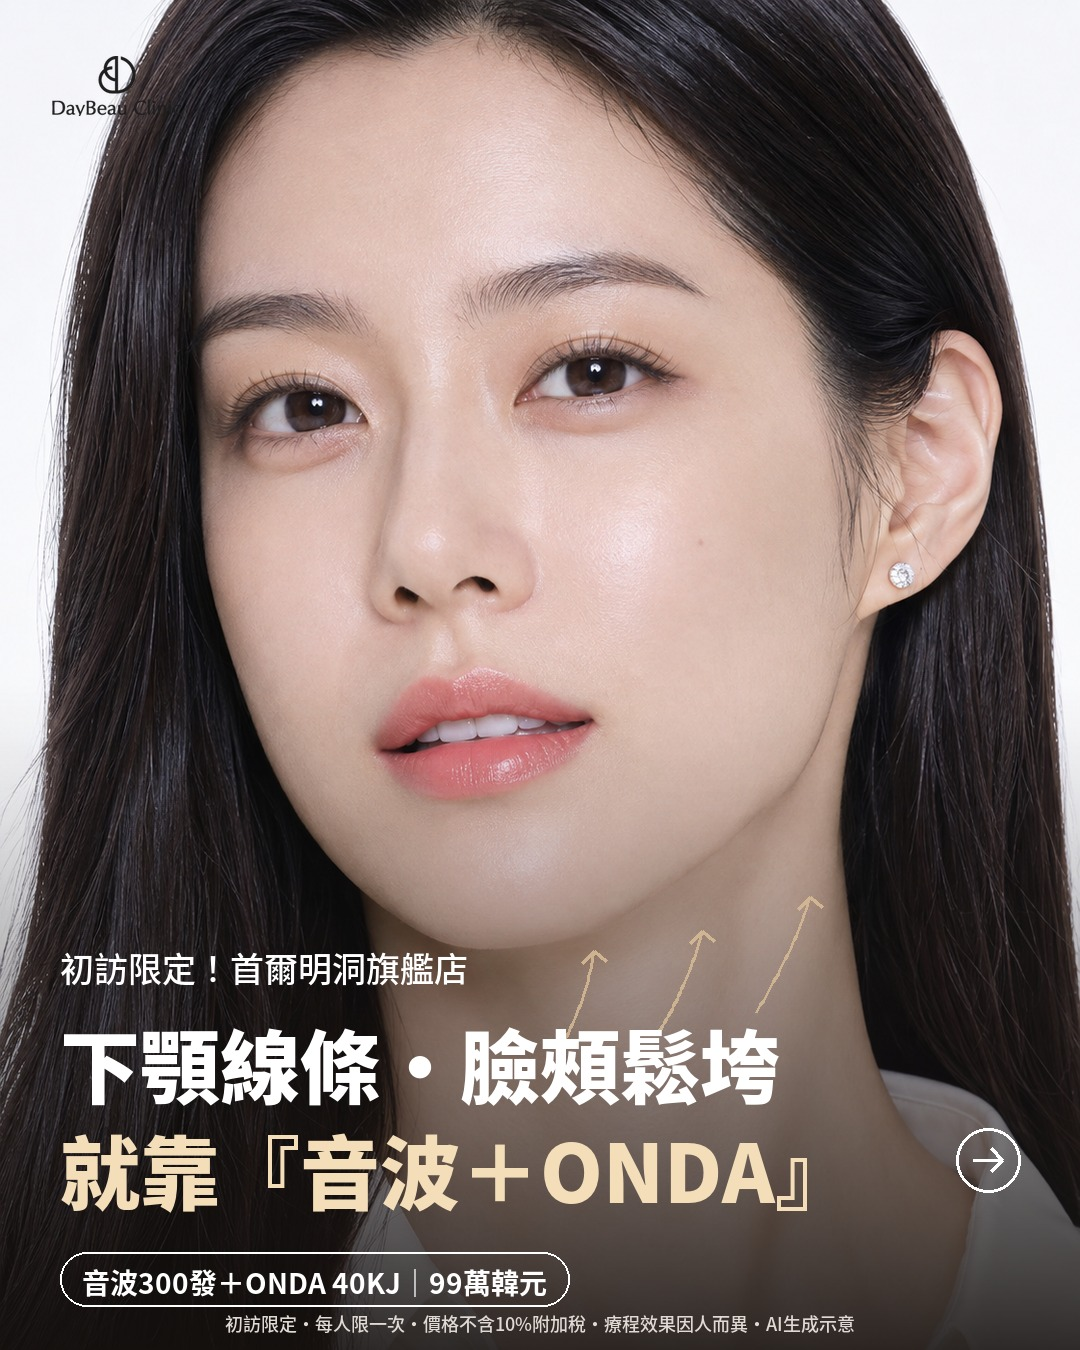
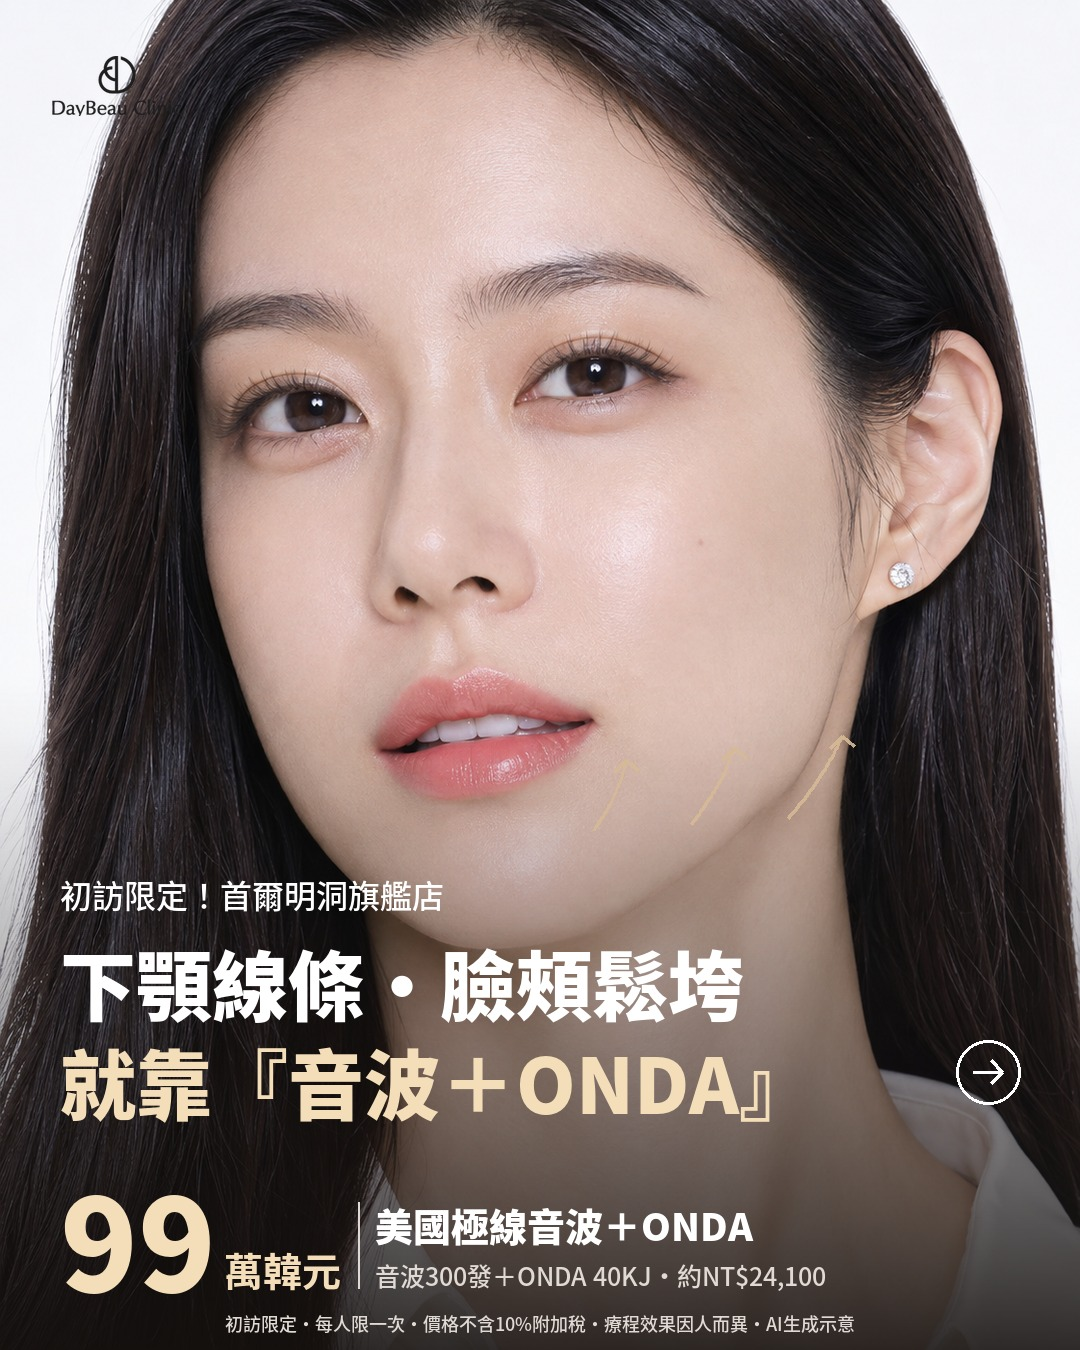
Claude: review-261112 게시

diff --git a/review-261112/index.html b/review-261112/index.html
@@ -14,20 +14,20 @@ table{border-collapse:collapse;width:100%;margin-top:14px;font-size:14px} td,th{
 .b{font-size:12px;padding:2px 8px;border-radius:99px;vertical-align:middle;margin-left:6px} .new{background:var(--acc);color:#fff} .keep{border:1px solid var(--line);color:var(--sub)}
 @media (max-width:640px){.pair{grid-template-columns:1fr}}
 </style><main><h1>데이뷰 명동 대만 이미지 소재 v5</h1>
-<p class="lead">왼쪽 우리 소재(4:5), 오른쪽 짝지은 레퍼런스. 1:1·9:16 파일은 같은 이름으로 함께 있습니다. 빠진 소재: 온다_셀카형1, 포텐자쥬베룩_셀카형1, 플래시형, 진정형, 다이어리형.</p>
-<section><h2>온다울쎄라_고민형1 <span class="b new">새 화보</span></h2><p class="ref">레퍼런스: PRIA 「頸闊肌肉毒」 (208일 집행)</p>
+<p class="lead">왼쪽 우리 소재(4:5), 오른쪽 짝지은 레퍼런스(모두 2026-11-12 기준 대만에 집행 중인 광고). 1:1·9:16 파일은 같은 이름으로 함께 있습니다. 빠진 소재: 온다_셀카형1, 포텐자쥬베룩_셀카형1, 플래시형, 진정형, 다이어리형.</p>
+<section><h2>온다울쎄라_고민형1 <span class="b new">새 화보</span></h2><p class="ref">레퍼런스: PRIA 「頸闊肌肉毒」 (2026-04-14부터 집행 중)</p>
 <div class="pair"><div class="ours"><img src="clips/온다울쎄라_고민형1_TW_4x5.jpg" alt=""></div><div class="theirs"><img src="ref/대만_4342478389414057_1.jpg" alt=""></div></div>
-<table><tr><th>번체</th><th>한국어</th></tr><tr><td lang='zh-Hant'>初訪限定！首爾明洞旗艦店</td><td>첫 방문 한정! 서울 명동 본점</td></tr><tr><td lang='zh-Hant'>下顎線條・臉頰鬆垮</td><td>턱선·볼 처짐</td></tr><tr><td lang='zh-Hant'>就靠『音波＋ONDA』</td><td>『울쎄라+온다』로 해결</td></tr><tr><td lang='zh-Hant'>音波300發＋ONDA 40KJ｜99萬韓元</td><td>울쎄라 300샷+온다 40KJ | 99만 원</td></tr><tr><td lang='zh-Hant'>初訪限定・每人限一次・價格不含10%附加稅・療程效果因人而異・AI生成示意</td><td>첫 방문 한정·1인 1회·가격 부가세 10% 별도·효과는 개인차·AI 생성 이미지</td></tr></table></section><section><h2>포텐자쥬베룩_고민형1 <span class="b new">새 화보</span></h2><p class="ref">레퍼런스: PRIA 「凹凸不平的凹陷疤痕」 (40일 집행)</p>
+<table><tr><th>번체</th><th>한국어</th></tr><tr><td lang='zh-Hant'>初訪限定！首爾明洞旗艦店</td><td>첫 방문 한정! 서울 명동 본점</td></tr><tr><td lang='zh-Hant'>下顎線條・臉頰鬆垮</td><td>턱선·볼 처짐</td></tr><tr><td lang='zh-Hant'>就靠『音波＋ONDA』</td><td>『울쎄라+온다』로 해결</td></tr><tr><td lang='zh-Hant'>99萬韓元 美國極線音波＋ONDA / 音波300發＋ONDA 40KJ・約NT$24,100</td><td>99만 원 미국 울쎄라+온다 / 울쎄라 300샷+온다 40KJ·약 NT$24,100</td></tr><tr><td lang='zh-Hant'>初訪限定・每人限一次・價格不含10%附加稅・療程效果因人而異・AI生成示意</td><td>첫 방문 한정·1인 1회·가격 부가세 10% 별도·효과는 개인차·AI 생성 이미지</td></tr></table></section><section><h2>포텐자쥬베룩_고민형1 <span class="b new">새 화보</span></h2><p class="ref">레퍼런스: PRIA 「凹凸不平的凹陷疤痕」 (2026-09-29부터 집행 중)</p>
 <div class="pair"><div class="ours"><img src="clips/포텐자쥬베룩_고민형1_TW_4x5.jpg" alt=""></div><div class="theirs"><img src="ref/대만_28200883912915810_1.jpg" alt=""></div></div>
-<table><tr><th>번체</th><th>한국어</th></tr><tr><td lang='zh-Hant'>每次上妝都很在意的毛孔</td><td>화장할 때마다 신경 쓰이는 모공</td></tr><tr><td lang='zh-Hant'>毛孔粗大、上妝卡粉，</td><td>넓은 모공, 화장 들뜸,</td></tr><tr><td lang='zh-Hant'>你還要遮到什麼時候？</td><td>언제까지 가릴 건가요?</td></tr><tr><td lang='zh-Hant'>黃金微針＋水光 N探頭＋JUVELOOK 2CC｜19萬韓元</td><td>포텐자+물광 N팁+쥬베룩 2cc | 19만 원</td></tr><tr><td lang='zh-Hant'>初訪限定・每人限一次・價格不含10%附加稅・療程效果因人而異・AI生成示意</td><td>첫 방문 한정·1인 1회·가격 부가세 10% 별도·효과는 개인차·AI 생성 이미지</td></tr></table></section><section><h2>온다울쎄라_화보형1 <span class="b new">새 화보</span></h2><p class="ref">레퍼런스: 法喬醫美 「精緻感微翹鼻」 (검정 화보·명조 제목·알약 3개)</p>
-<div class="pair"><div class="ours"><img src="clips/온다울쎄라_화보형1_TW_4x5.jpg" alt=""></div><div class="theirs"><div class="noref">레퍼런스 이미지 없음<br>(구조만 따름)</div></div></div>
-<table><tr><th>번체</th><th>한국어</th></tr><tr><td lang='zh-Hant'>「首爾明洞旗艦店・初訪人氣組合」</td><td>「서울 명동 본점·첫 방문 인기 조합」</td></tr><tr><td lang='zh-Hant'>俐落輪廓感</td><td>날렵한 윤곽</td></tr><tr><td lang='zh-Hant'>音波300發＋ONDA 40KJ / 99萬韓元・約NT$24,100 / 1人獨立療程室</td><td>울쎄라 300샷+온다 40KJ / 99만 원·약 NT$24,100 / 1인 단독 시술실</td></tr><tr><td lang='zh-Hant'>初訪限定・每人限一次・價格不含10%附加稅・療程效果因人而異・AI生成示意</td><td>첫 방문 한정·1인 1회·가격 부가세 10% 별도·효과는 개인차·AI 생성 이미지</td></tr></table></section><section><h2>포텐자쥬베룩_화보형1 <span class="b new">새 화보</span></h2><p class="ref">레퍼런스: 法喬醫美 「胸形到位」 (밝은 회색·손글씨·원형 배지 3개)</p>
-<div class="pair"><div class="ours"><img src="clips/포텐자쥬베룩_화보형1_TW_4x5.jpg" alt=""></div><div class="theirs"><div class="noref">레퍼런스 이미지 없음<br>(구조만 따름)</div></div></div>
-<table><tr><th>번체</th><th>한국어</th></tr><tr><td lang='zh-Hant'>上妝卡粉？先顧好毛孔</td><td>화장이 들뜬다면? 모공부터 챙기세요</td></tr><tr><td lang='zh-Hant'>黃金微針＋水光，一次搞定！</td><td>포텐자+물광, 한 번에 해결!</td></tr><tr><td lang='zh-Hant'>探頭費已包含 / JUVELOOK 水光 2CC / 19萬韓元 約NT$4,600</td><td>팁 비용 포함 / 쥬베룩 물광 2cc / 19만 원 약 NT$4,600</td></tr><tr><td lang='zh-Hant'>LINE 免費諮詢 →</td><td>LINE 무료 상담 →</td></tr><tr><td lang='zh-Hant'>初訪限定・每人限一次・價格不含10%附加稅・療程效果因人而異・AI生成示意</td><td>첫 방문 한정·1인 1회·가격 부가세 10% 별도·효과는 개인차·AI 생성 이미지</td></tr></table></section><section><h2>온다_분할형1 <span class="b new">새 화보</span></h2><p class="ref">레퍼런스: 톡스앤필 명동 「SCULPTRA 1瓶 65萬韓元」</p>
+<table><tr><th>번체</th><th>한국어</th></tr><tr><td lang='zh-Hant'>每次上妝都很在意的毛孔</td><td>화장할 때마다 신경 쓰이는 모공</td></tr><tr><td lang='zh-Hant'>毛孔粗大、上妝卡粉，</td><td>넓은 모공, 화장 들뜸,</td></tr><tr><td lang='zh-Hant'>你還要遮到什麼時候？</td><td>언제까지 가릴 건가요?</td></tr><tr><td lang='zh-Hant'>19萬韓元 黃金微針＋水光 / N探頭＋JUVELOOK 2CC・約NT$4,600</td><td>19만 원 포텐자+물광 / N팁+쥬베룩 2cc·약 NT$4,600</td></tr><tr><td lang='zh-Hant'>初訪限定・每人限一次・價格不含10%附加稅・療程效果因人而異・AI生成示意</td><td>첫 방문 한정·1인 1회·가격 부가세 10% 별도·효과는 개인차·AI 생성 이미지</td></tr></table></section><section><h2>온다울쎄라_화보형1 <span class="b new">새 화보</span></h2><p class="ref">레퍼런스: 法喬醫美 「精緻感微翹鼻」 (대만 현지 병원, 2026-06-08부터 집행 중)</p>
+<div class="pair"><div class="ours"><img src="clips/온다울쎄라_화보형1_TW_4x5.jpg" alt=""></div><div class="theirs"><img src="ref/대만_4453394234914423_1.jpg" alt=""></div></div>
+<table><tr><th>번체</th><th>한국어</th></tr><tr><td lang='zh-Hant'>「首爾明洞旗艦店・初訪人氣組合」</td><td>「서울 명동 본점·첫 방문 인기 조합」</td></tr><tr><td lang='zh-Hant'>俐落輪廓感</td><td>날렵한 윤곽</td></tr><tr><td lang='zh-Hant'>99萬韓元 美國極線音波＋ONDA / 音波300發＋ONDA 40KJ・約NT$24,100</td><td>99만 원 미국 울쎄라+온다 / 울쎄라 300샷+온다 40KJ·약 NT$24,100</td></tr><tr><td lang='zh-Hant'>初訪限定・每人限一次・價格不含10%附加稅・療程效果因人而異・AI生成示意</td><td>첫 방문 한정·1인 1회·가격 부가세 10% 별도·효과는 개인차·AI 생성 이미지</td></tr></table></section><section><h2>포텐자쥬베룩_화보형1 <span class="b new">새 화보</span></h2><p class="ref">레퍼런스: 法喬醫美 「胸形到位」 (대만 현지 병원, 2026-10-05부터 집행 중)</p>
+<div class="pair"><div class="ours"><img src="clips/포텐자쥬베룩_화보형1_TW_4x5.jpg" alt=""></div><div class="theirs"><img src="ref/대만_2097931534149470_1.jpg" alt=""></div></div>
+<table><tr><th>번체</th><th>한국어</th></tr><tr><td lang='zh-Hant'>上妝卡粉？先顧好毛孔</td><td>화장이 들뜬다면? 모공부터 챙기세요</td></tr><tr><td lang='zh-Hant'>黃金微針＋水光，一次搞定！</td><td>포텐자+물광, 한 번에 해결!</td></tr><tr><td lang='zh-Hant'>探頭費已包含 / JUVELOOK 水光 2CC / 1人獨立療程室</td><td>팁 비용 포함 / 쥬베룩 물광 2cc / 1인 단독 시술실</td></tr><tr><td lang='zh-Hant'>N探頭＋JUVELOOK 2CC 19萬韓元 約NT$4,600</td><td>N팁+쥬베룩 2cc 19만 원 약 NT$4,600</td></tr><tr><td lang='zh-Hant'>LINE 免費諮詢 →</td><td>LINE 무료 상담 →</td></tr><tr><td lang='zh-Hant'>初訪限定・每人限一次・價格不含10%附加稅・療程效果因人而異・AI生成示意</td><td>첫 방문 한정·1인 1회·가격 부가세 10% 별도·효과는 개인차·AI 생성 이미지</td></tr></table></section><section><h2>온다_분할형1 <span class="b new">새 화보</span></h2><p class="ref">레퍼런스: 톡스앤필 명동 「SCULPTRA 1瓶 65萬韓元」 (2026-08-20부터 집행 중)</p>
 <div class="pair"><div class="ours"><img src="clips/온다_분할형1_TW_4x5.jpg" alt=""></div><div class="theirs"><img src="ref/대만_2325900291484842_1.jpg" alt=""></div></div>
-<table><tr><th>번체</th><th>한국어</th></tr><tr><td lang='zh-Hant'>FIRST VISIT 初訪限定</td><td>첫 방문 한정</td></tr><tr><td lang='zh-Hant'>微波緊緻拉提 ONDA</td><td>마이크로웨이브 탄력 리프팅 온다</td></tr><tr><td lang='zh-Hant'>每10KJ 3.9萬・最多加購至30KJ</td><td>10KJ당 3.9만·최대 30KJ까지 추가</td></tr><tr><td lang='zh-Hant'>ONDA 10KJ 3.9萬韓元 約NT$950</td><td>온다 10KJ 3.9만 원 약 NT$950</td></tr><tr><td lang='zh-Hant'>本價格未包含10%的附加稅・初訪限定每人一次</td><td>부가세 10% 별도·첫 방문 1인 1회</td></tr></table></section><section><h2>온다울쎄라_분할형1 <span class="b new">새 화보</span></h2><p class="ref">레퍼런스: 톡스앤필 명동 「SCULPTRA 1瓶 65萬韓元」</p>
+<table><tr><th>번체</th><th>한국어</th></tr><tr><td lang='zh-Hant'>FIRST VISIT 初訪限定</td><td>첫 방문 한정</td></tr><tr><td lang='zh-Hant'>微波緊緻拉提 ONDA</td><td>마이크로웨이브 탄력 리프팅 온다</td></tr><tr><td lang='zh-Hant'>每10KJ 3.9萬・最多加購至30KJ</td><td>10KJ당 3.9만·최대 30KJ까지 추가</td></tr><tr><td lang='zh-Hant'>ONDA 10KJ 3.9萬韓元 約NT$950</td><td>온다 10KJ 3.9만 원 약 NT$950</td></tr><tr><td lang='zh-Hant'>本價格未包含10%的附加稅・初訪限定每人一次</td><td>부가세 10% 별도·첫 방문 1인 1회</td></tr></table></section><section><h2>온다울쎄라_분할형1 <span class="b new">새 화보</span></h2><p class="ref">레퍼런스: 톡스앤필 명동 「SCULPTRA 1瓶 65萬韓元」 (2026-08-20부터 집행 중)</p>
 <div class="pair"><div class="ours"><img src="clips/온다울쎄라_분할형1_TW_4x5.jpg" alt=""></div><div class="theirs"><img src="ref/대만_2325900291484842_1.jpg" alt=""></div></div>
-<table><tr><th>번체</th><th>한국어</th></tr><tr><td lang='zh-Hant'>美國極線音波＋ONDA / ULTHERAPY × ONDA</td><td>미국 울쎄라+온다</td></tr><tr><td lang='zh-Hant'>筋膜層＋脂肪層 一次處理</td><td>근막층+지방층 한 번에</td></tr><tr><td lang='zh-Hant'>音波300發＋ONDA 40KJ 99萬韓元 約NT$24,100</td><td>울쎄라 300샷+온다 40KJ 99만 원 약 NT$24,100</td></tr></table></section><section><h2>포텐자쥬베룩_분할형1 <span class="b new">새 화보</span></h2><p class="ref">레퍼런스: 톡스앤필 명동 「SCULPTRA 1瓶 65萬韓元」</p>
+<table><tr><th>번체</th><th>한국어</th></tr><tr><td lang='zh-Hant'>美國極線音波＋ONDA / ULTHERAPY × ONDA</td><td>미국 울쎄라+온다</td></tr><tr><td lang='zh-Hant'>筋膜層＋脂肪層 一次處理</td><td>근막층+지방층 한 번에</td></tr><tr><td lang='zh-Hant'>音波300發＋ONDA 40KJ 99萬韓元 約NT$24,100</td><td>울쎄라 300샷+온다 40KJ 99만 원 약 NT$24,100</td></tr></table></section><section><h2>포텐자쥬베룩_분할형1 <span class="b new">새 화보</span></h2><p class="ref">레퍼런스: 톡스앤필 명동 「SCULPTRA 1瓶 65萬韓元」 (2026-08-20부터 집행 중)</p>
 <div class="pair"><div class="ours"><img src="clips/포텐자쥬베룩_분할형1_TW_4x5.jpg" alt=""></div><div class="theirs"><img src="ref/대만_2325900291484842_1.jpg" alt=""></div></div>
 <table><tr><th>번체</th><th>한국어</th></tr><tr><td lang='zh-Hant'>黃金微針＋水光 / POTENZA × JUVELOOK</td><td>포텐자+물광 / 포텐자×쥬베룩</td></tr><tr><td lang='zh-Hant'>探頭費已包含・毛孔×膚質</td><td>팁 비용 포함·모공×피부결</td></tr><tr><td lang='zh-Hant'>N探頭＋JUVELOOK 2CC 19萬韓元 約NT$4,600</td><td>N팁+쥬베룩 2cc 19만 원 약 NT$4,600</td></tr></table></section><section><h2>전체시술_혜택형1 <span class="b keep">유지</span></h2><p class="ref">레퍼런스: 데이뷰 대만 「LIFTING BENEFIT」 (사진 없는 가격 카드, 레퍼런스대로 유지)</p>
 <div class="pair"><div class="ours"><img src="clips/v3_benefit.jpg" alt=""></div><div class="theirs"><div class="noref">레퍼런스 이미지 없음<br>(구조만 따름)</div></div></div>
@@ -35,6 +35,6 @@ table{border-collapse:collapse;width:100%;margin-top:14px;font-size:14px} td,th{
 <div class="pair"><div class="ours"><img src="clips/v3_menu.jpg" alt=""></div><div class="theirs"><div class="noref">레퍼런스 이미지 없음<br>(구조만 따름)</div></div></div>
 </section><section><h2>전체시술_원장형1 <span class="b keep">유지</span></h2><p class="ref">레퍼런스: 佳思優 「美國二代音波」 (실제 원장 사진, 그대로)</p>
 <div class="pair"><div class="ours"><img src="clips/v3_doctor.jpg" alt=""></div><div class="theirs"><div class="noref">레퍼런스 이미지 없음<br>(구조만 따름)</div></div></div>
-</section><section><h2>전체시술_이유형1 (캐러셀 5장) <span class="b keep">유지</span></h2><p class="ref">레퍼런스: PRIA 「WHY PRiA」 (164일 집행, 실사진 그대로)</p>
+</section><section><h2>전체시술_이유형1 (캐러셀 5장) <span class="b keep">유지</span></h2><p class="ref">레퍼런스: PRIA 「WHY PRiA」 (2026-05-28부터 집행 중, 실사진 그대로)</p>
 <div class="pair"><div class="ours"><img src="clips/c07.jpg" alt=""><img src="clips/c08.jpg" alt=""><img src="clips/c09.jpg" alt=""><img src="clips/c10.jpg" alt=""><img src="clips/c11.jpg" alt=""></div><div class="theirs"><img src="ref/대만_1606243277114597_1.jpg" alt=""></div></div>
 </section></main></html>
